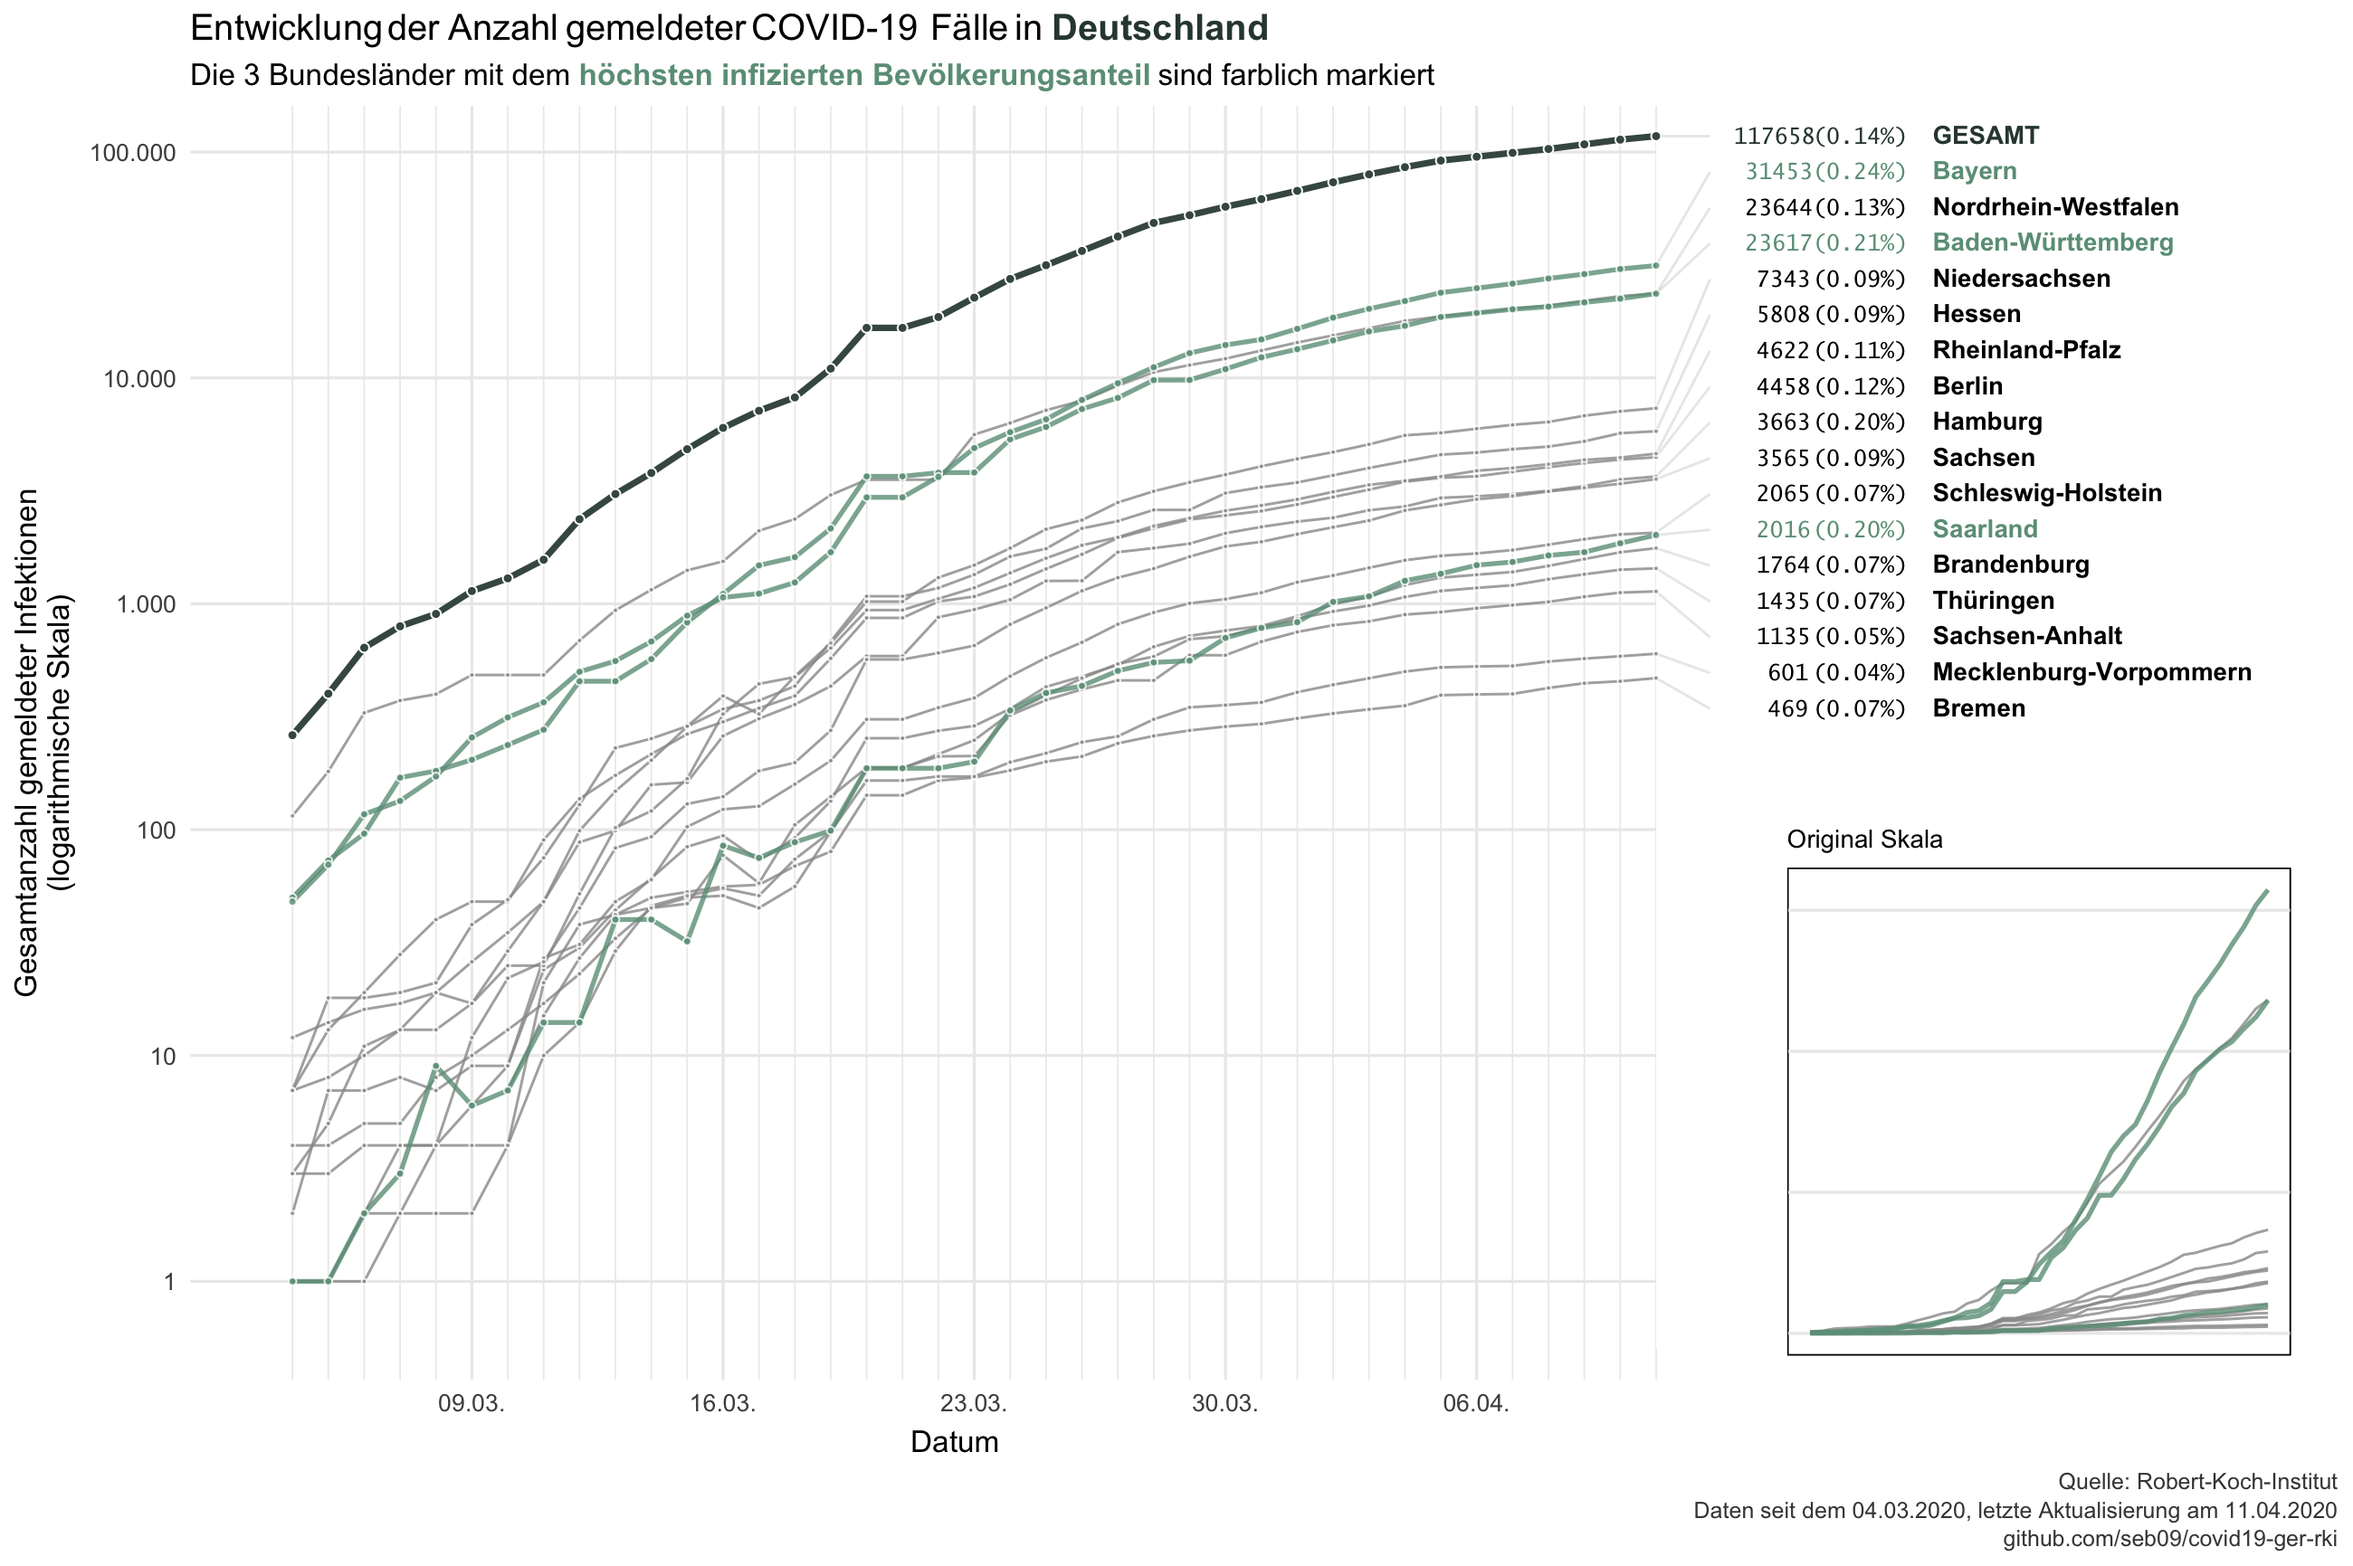
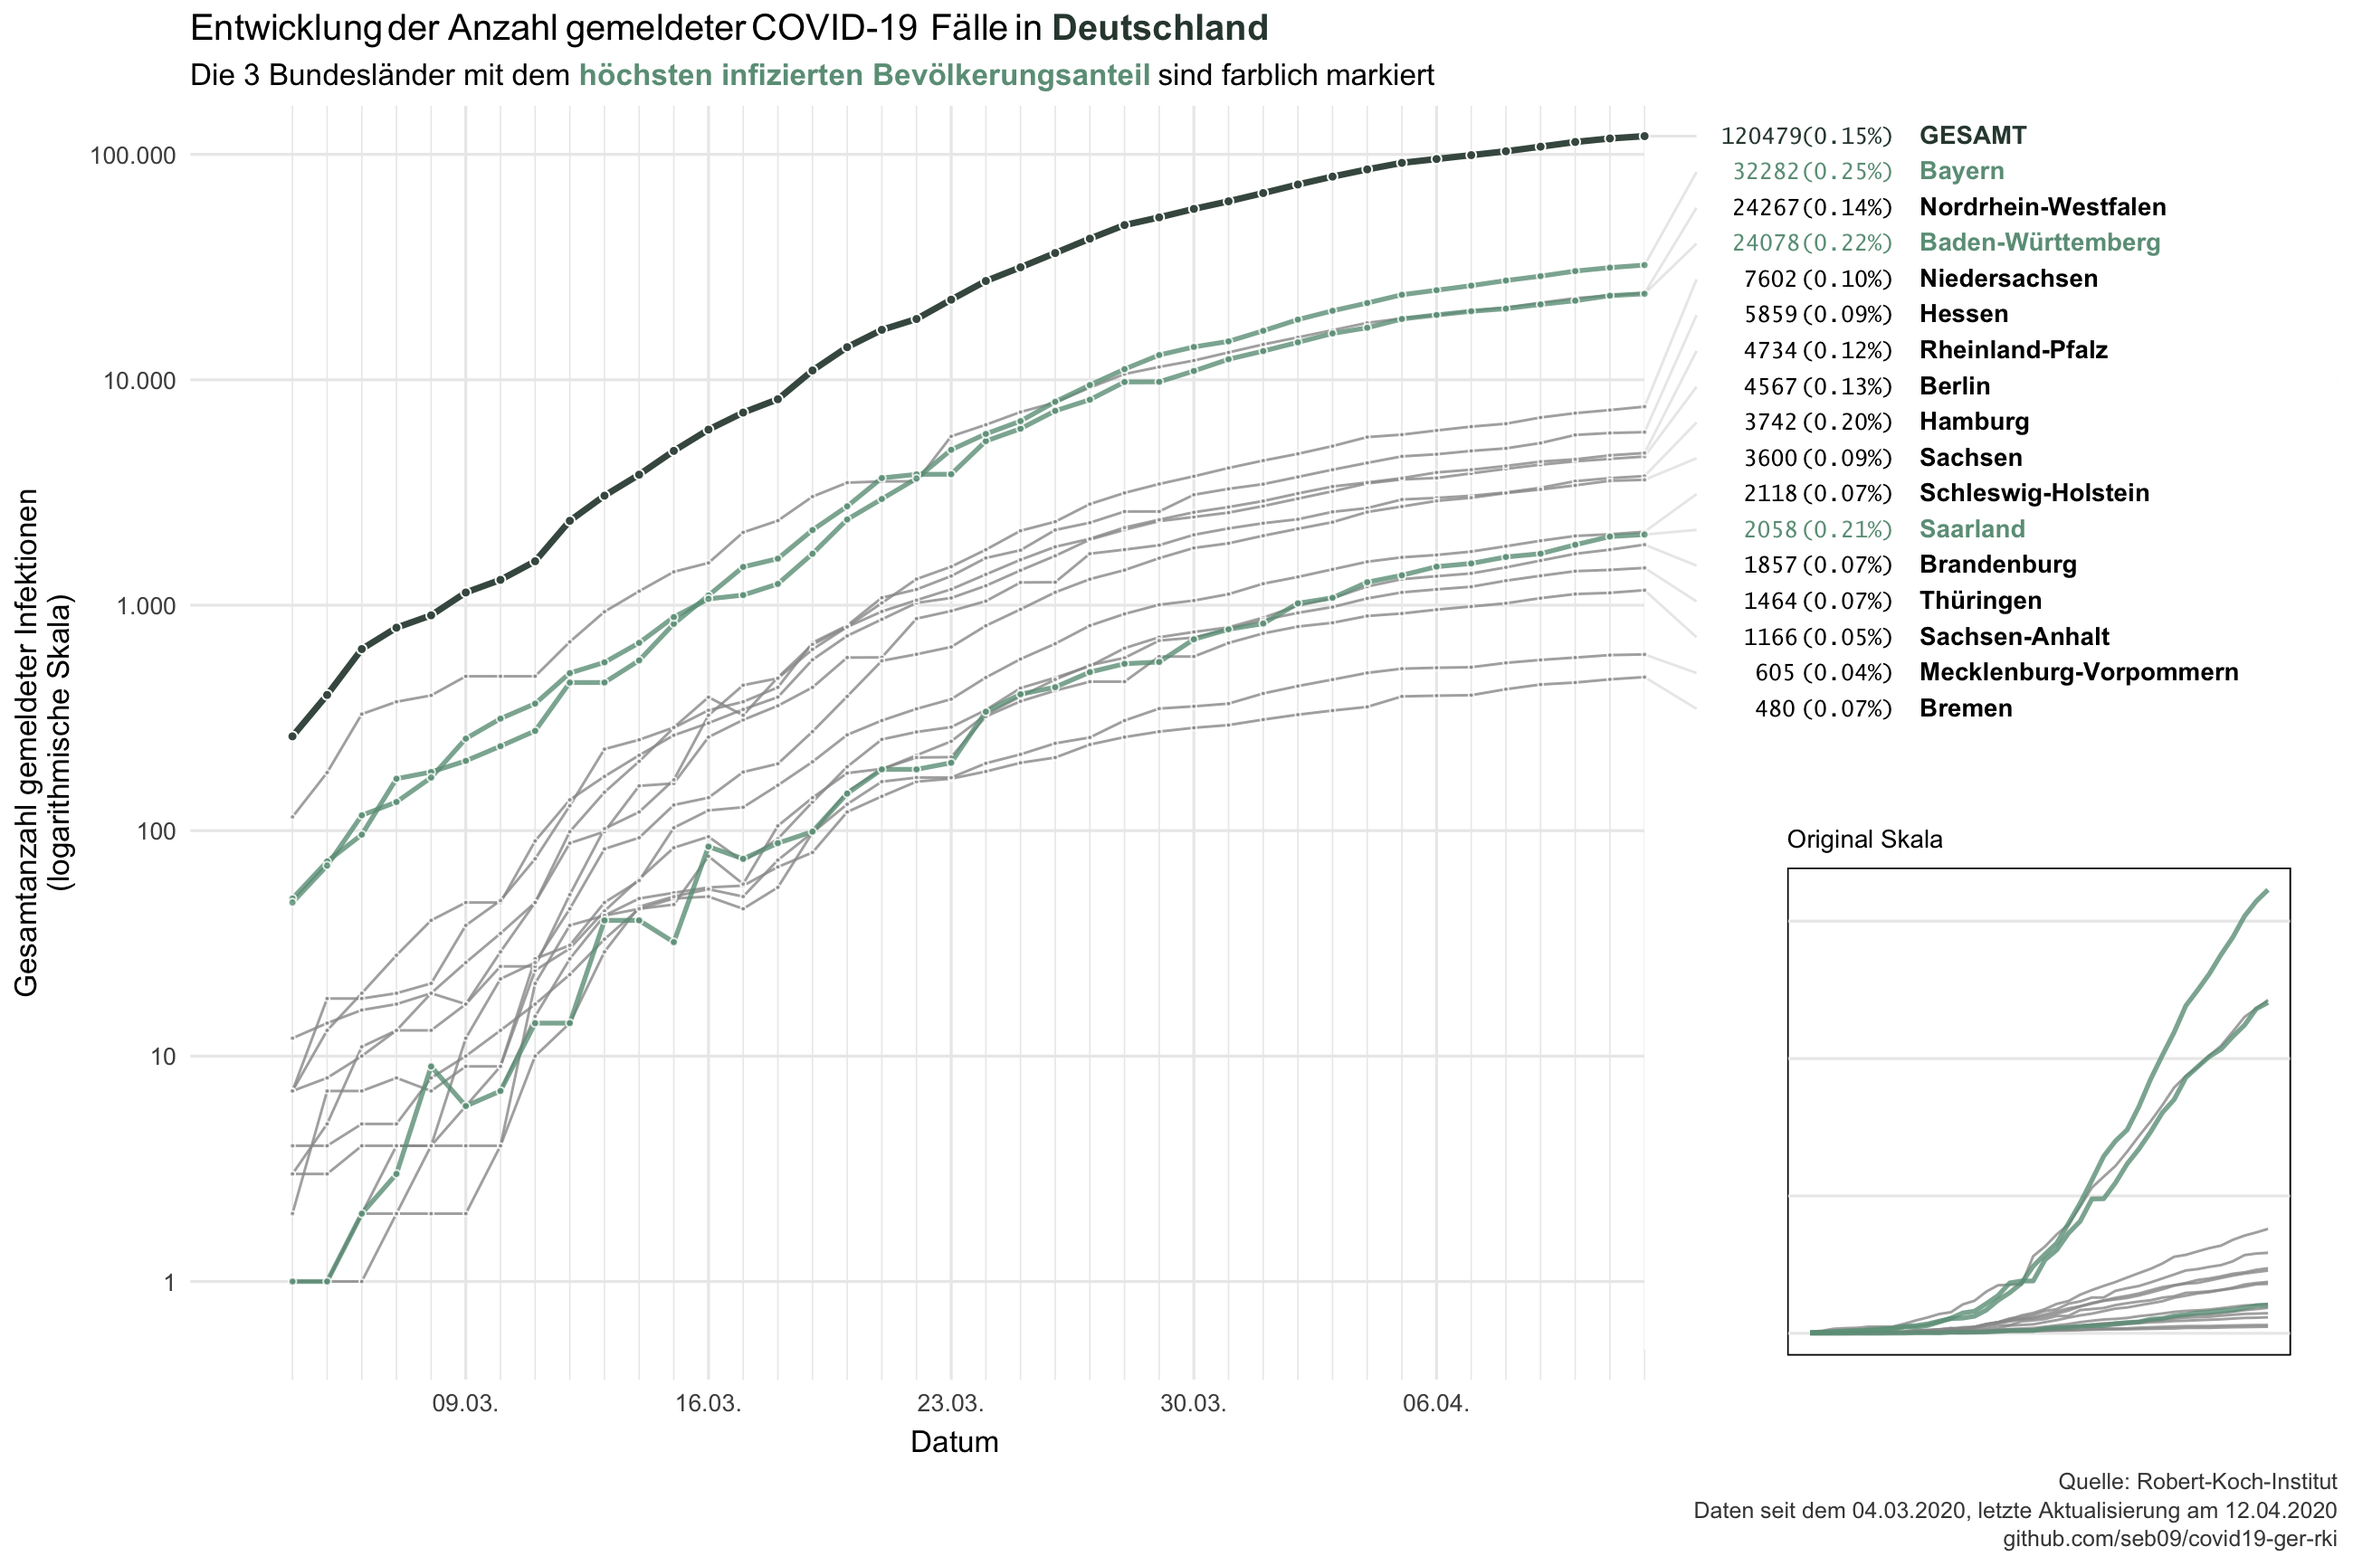
daily update 2020-04-12 + data fix 2020-03-20

diff --git a/README.md b/README.md
@@ -1,6 +1,6 @@
 Data from the Robert-Koch-Institut on COVID-19 in Germany
 ================
-Last update: 2020-04-11
+Last update: 2020-04-12
 
 This repository contains data on reported COVID-19 cases in Germany and
 its federal states that is published daily by the Robert-Koch-Institut
@@ -14,26 +14,26 @@ corona_rki %>%
   print(n = 16)
 ```
 
-    ## # A tibble: 618 x 6
+    ## # A tibble: 634 x 6
     ##    Datum      Bundesland      Fallzahl Todeszahl Fallzahl_neu Todeszahl_neu
     ##    <date>     <chr>              <dbl>     <dbl>        <dbl>         <dbl>
-    ##  1 2020-04-11 Baden-Württemb…    23617       622         1184            52
-    ##  2 2020-04-11 Bayern             31453       747         1090            44
-    ##  3 2020-04-11 Berlin              4458        46          109             4
-    ##  4 2020-04-11 Brandenburg         1764        37           73             0
-    ##  5 2020-04-11 Bremen               469        15           15             2
-    ##  6 2020-04-11 Hamburg             3663        56          112             3
-    ##  7 2020-04-11 Hessen              5808       120          114             9
-    ##  8 2020-04-11 Mecklenburg-Vo…      601        11           15             0
-    ##  9 2020-04-11 Niedersachsen       7343       171          229            10
-    ## 10 2020-04-11 Nordrhein-West…    23644       472          616            26
-    ## 11 2020-04-11 Rheinland-Pfalz     4622        59          182             8
-    ## 12 2020-04-11 Saarland            2016        41          162             5
-    ## 13 2020-04-11 Sachsen             3565        65          163             6
-    ## 14 2020-04-11 Sachsen-Anhalt      1135        18           14             0
-    ## 15 2020-04-11 Schleswig-Hols…     2065        39           36             1
-    ## 16 2020-04-11 Thüringen           1435        25           19             1
-    ## # … with 602 more rows
+    ##  1 2020-04-12 Baden-Württemb…    24078       649          461            27
+    ##  2 2020-04-12 Bayern             32282       786          829            39
+    ##  3 2020-04-12 Berlin              4567        50          109             4
+    ##  4 2020-04-12 Brandenburg         1857        38           93             1
+    ##  5 2020-04-12 Bremen               480        15           11             0
+    ##  6 2020-04-12 Hamburg             3742        56           79             0
+    ##  7 2020-04-12 Hessen              5859       123           51             3
+    ##  8 2020-04-12 Mecklenburg-Vo…      605        11            4             0
+    ##  9 2020-04-12 Niedersachsen       7602       189          259            18
+    ## 10 2020-04-12 Nordrhein-West…    24267       495          623            23
+    ## 11 2020-04-12 Rheinland-Pfalz     4734        64          112             5
+    ## 12 2020-04-12 Saarland            2058        43           42             2
+    ## 13 2020-04-12 Sachsen             3600        67           35             2
+    ## 14 2020-04-12 Sachsen-Anhalt      1166        21           31             3
+    ## 15 2020-04-12 Schleswig-Hols…     2118        41           53             2
+    ## 16 2020-04-12 Thüringen           1464        25           29             0
+    ## # … with 618 more rows
 
 Data is downloaded each day at 11am from the [website of the
 RKI](https://www.rki.de/DE/Content/InfAZ/N/Neuartiges_Coronavirus/Fallzahlen.html)
